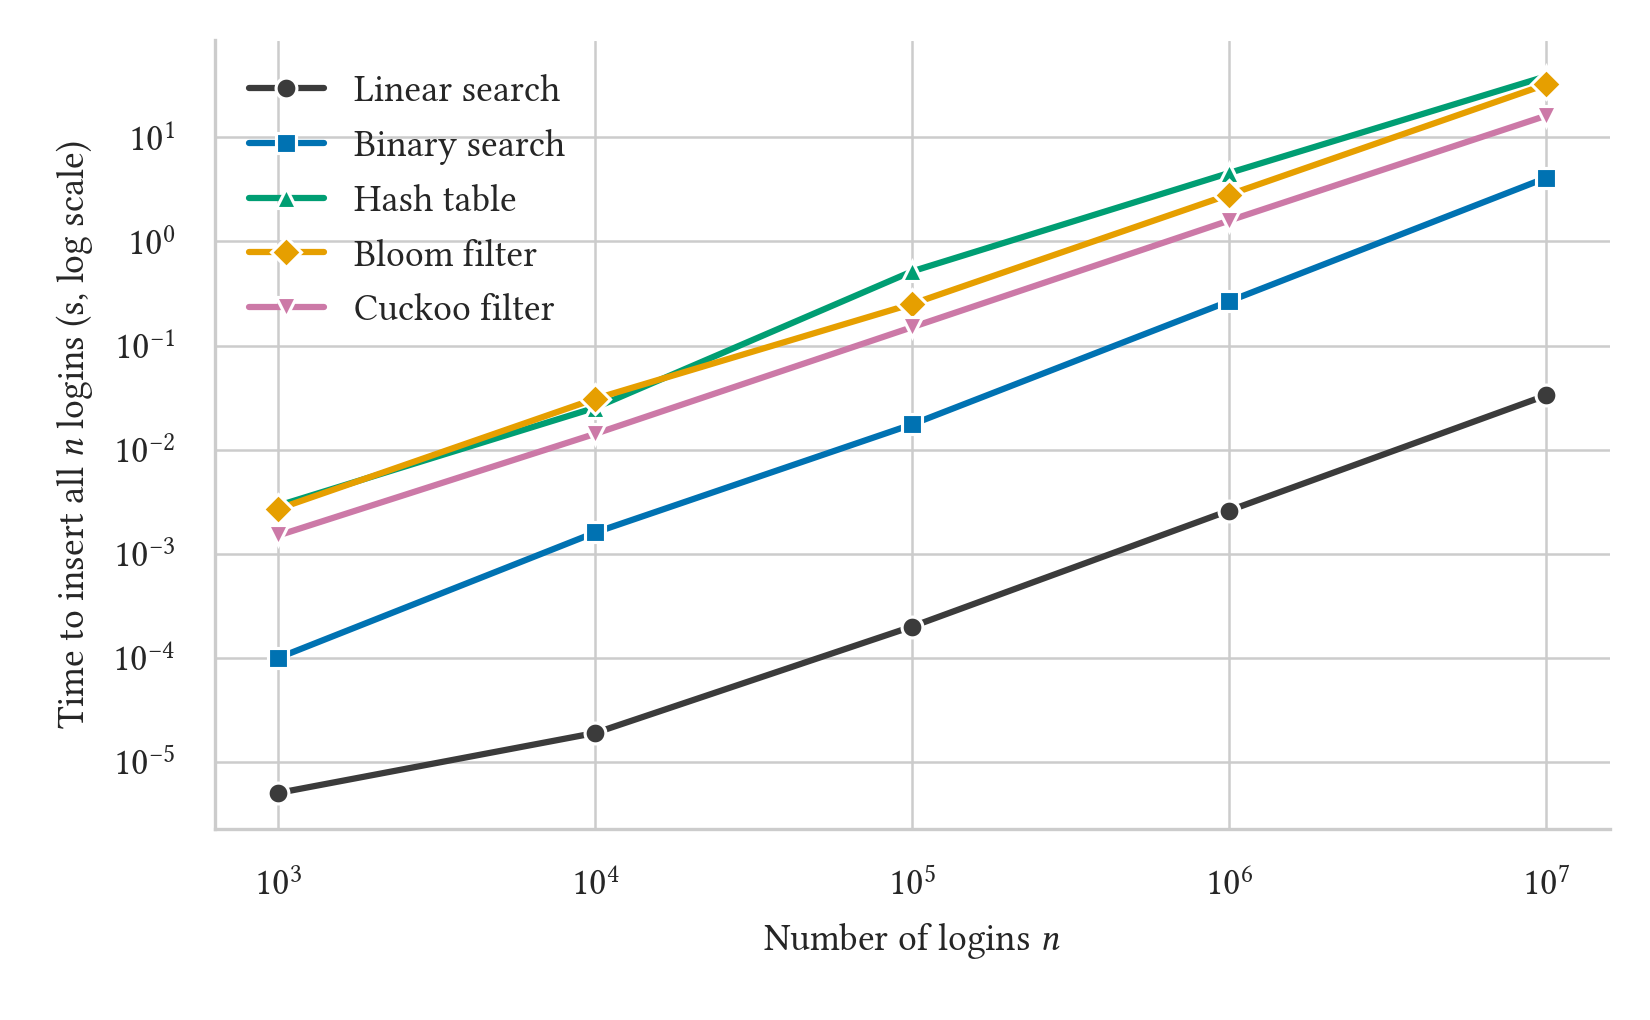
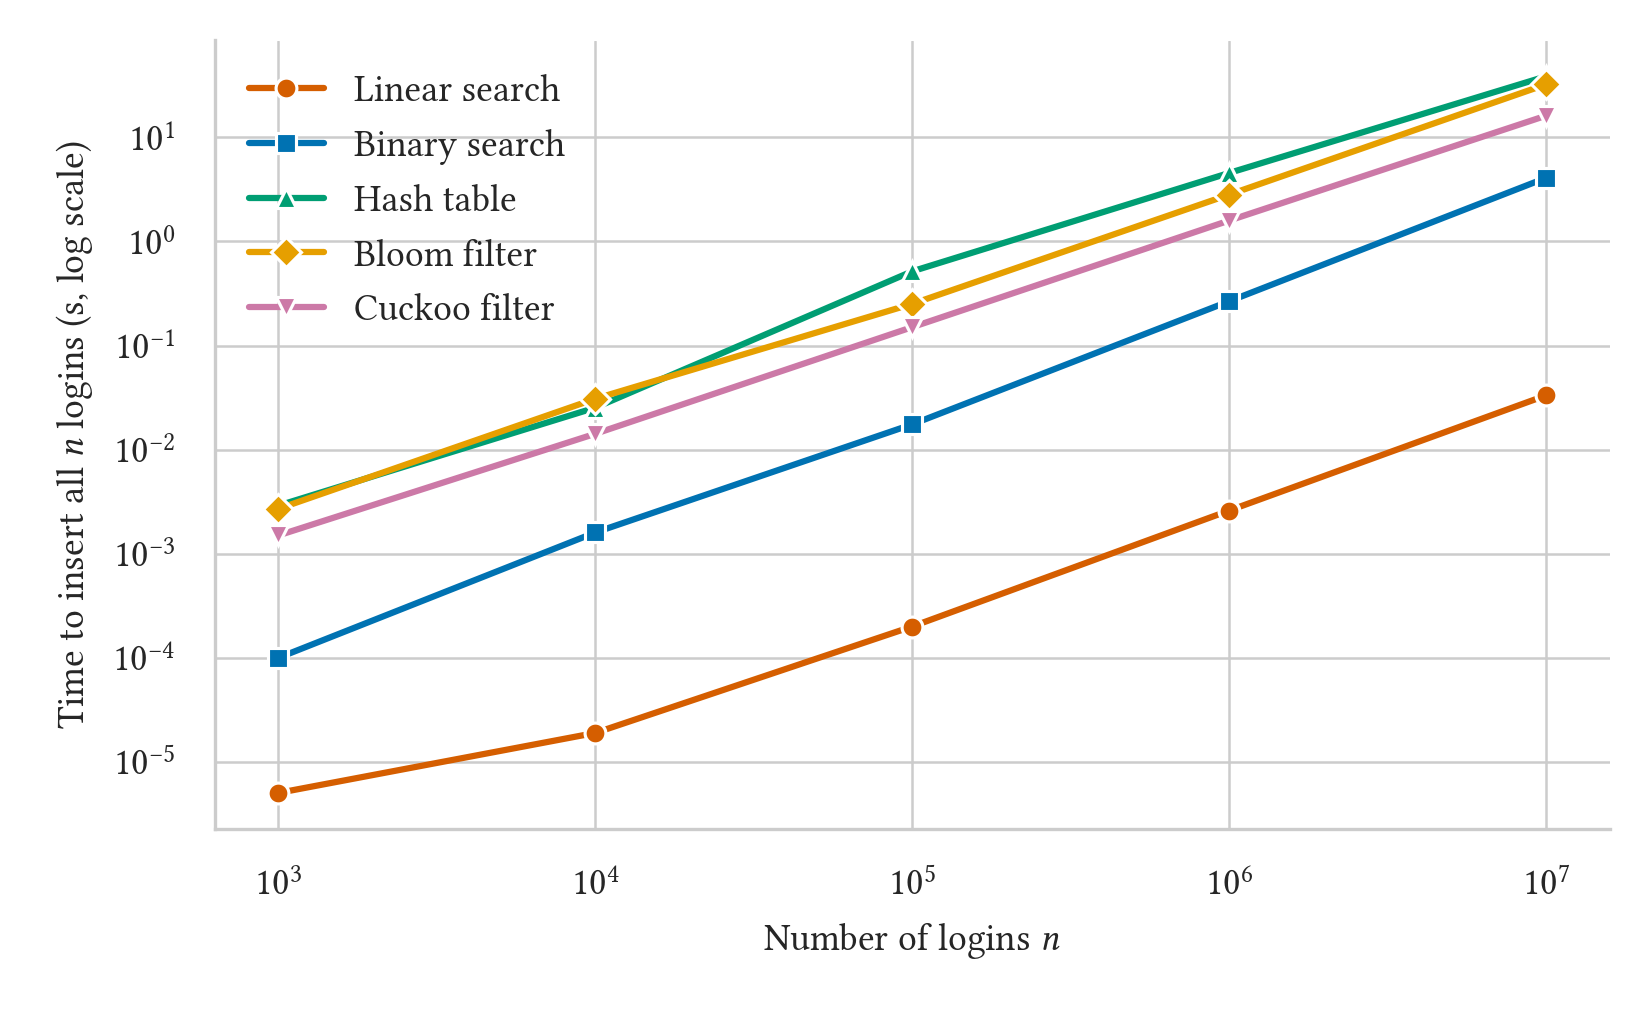
Use vermillion for linear search in plots

diff --git a/benchmarks/plot_results.py b/benchmarks/plot_results.py
@@ -23,7 +23,7 @@ ORDER = ["Linear search", "Binary search", "Hash table", "Bloom filter", "Cuckoo
 # Okabe-Ito colorblind-safe colors, chosen so no two lines look alike.
 # Each structure keeps the same color and marker in every plot.
 PALETTE = {
-    "Linear search": "#3b3b3b",  # dark gray (baseline)
+    "Linear search": "#d55e00",  # vermillion
     "Binary search": "#0072b2",  # blue
     "Hash table": "#009e73",     # green
     "Bloom filter": "#e69f00",   # orange
